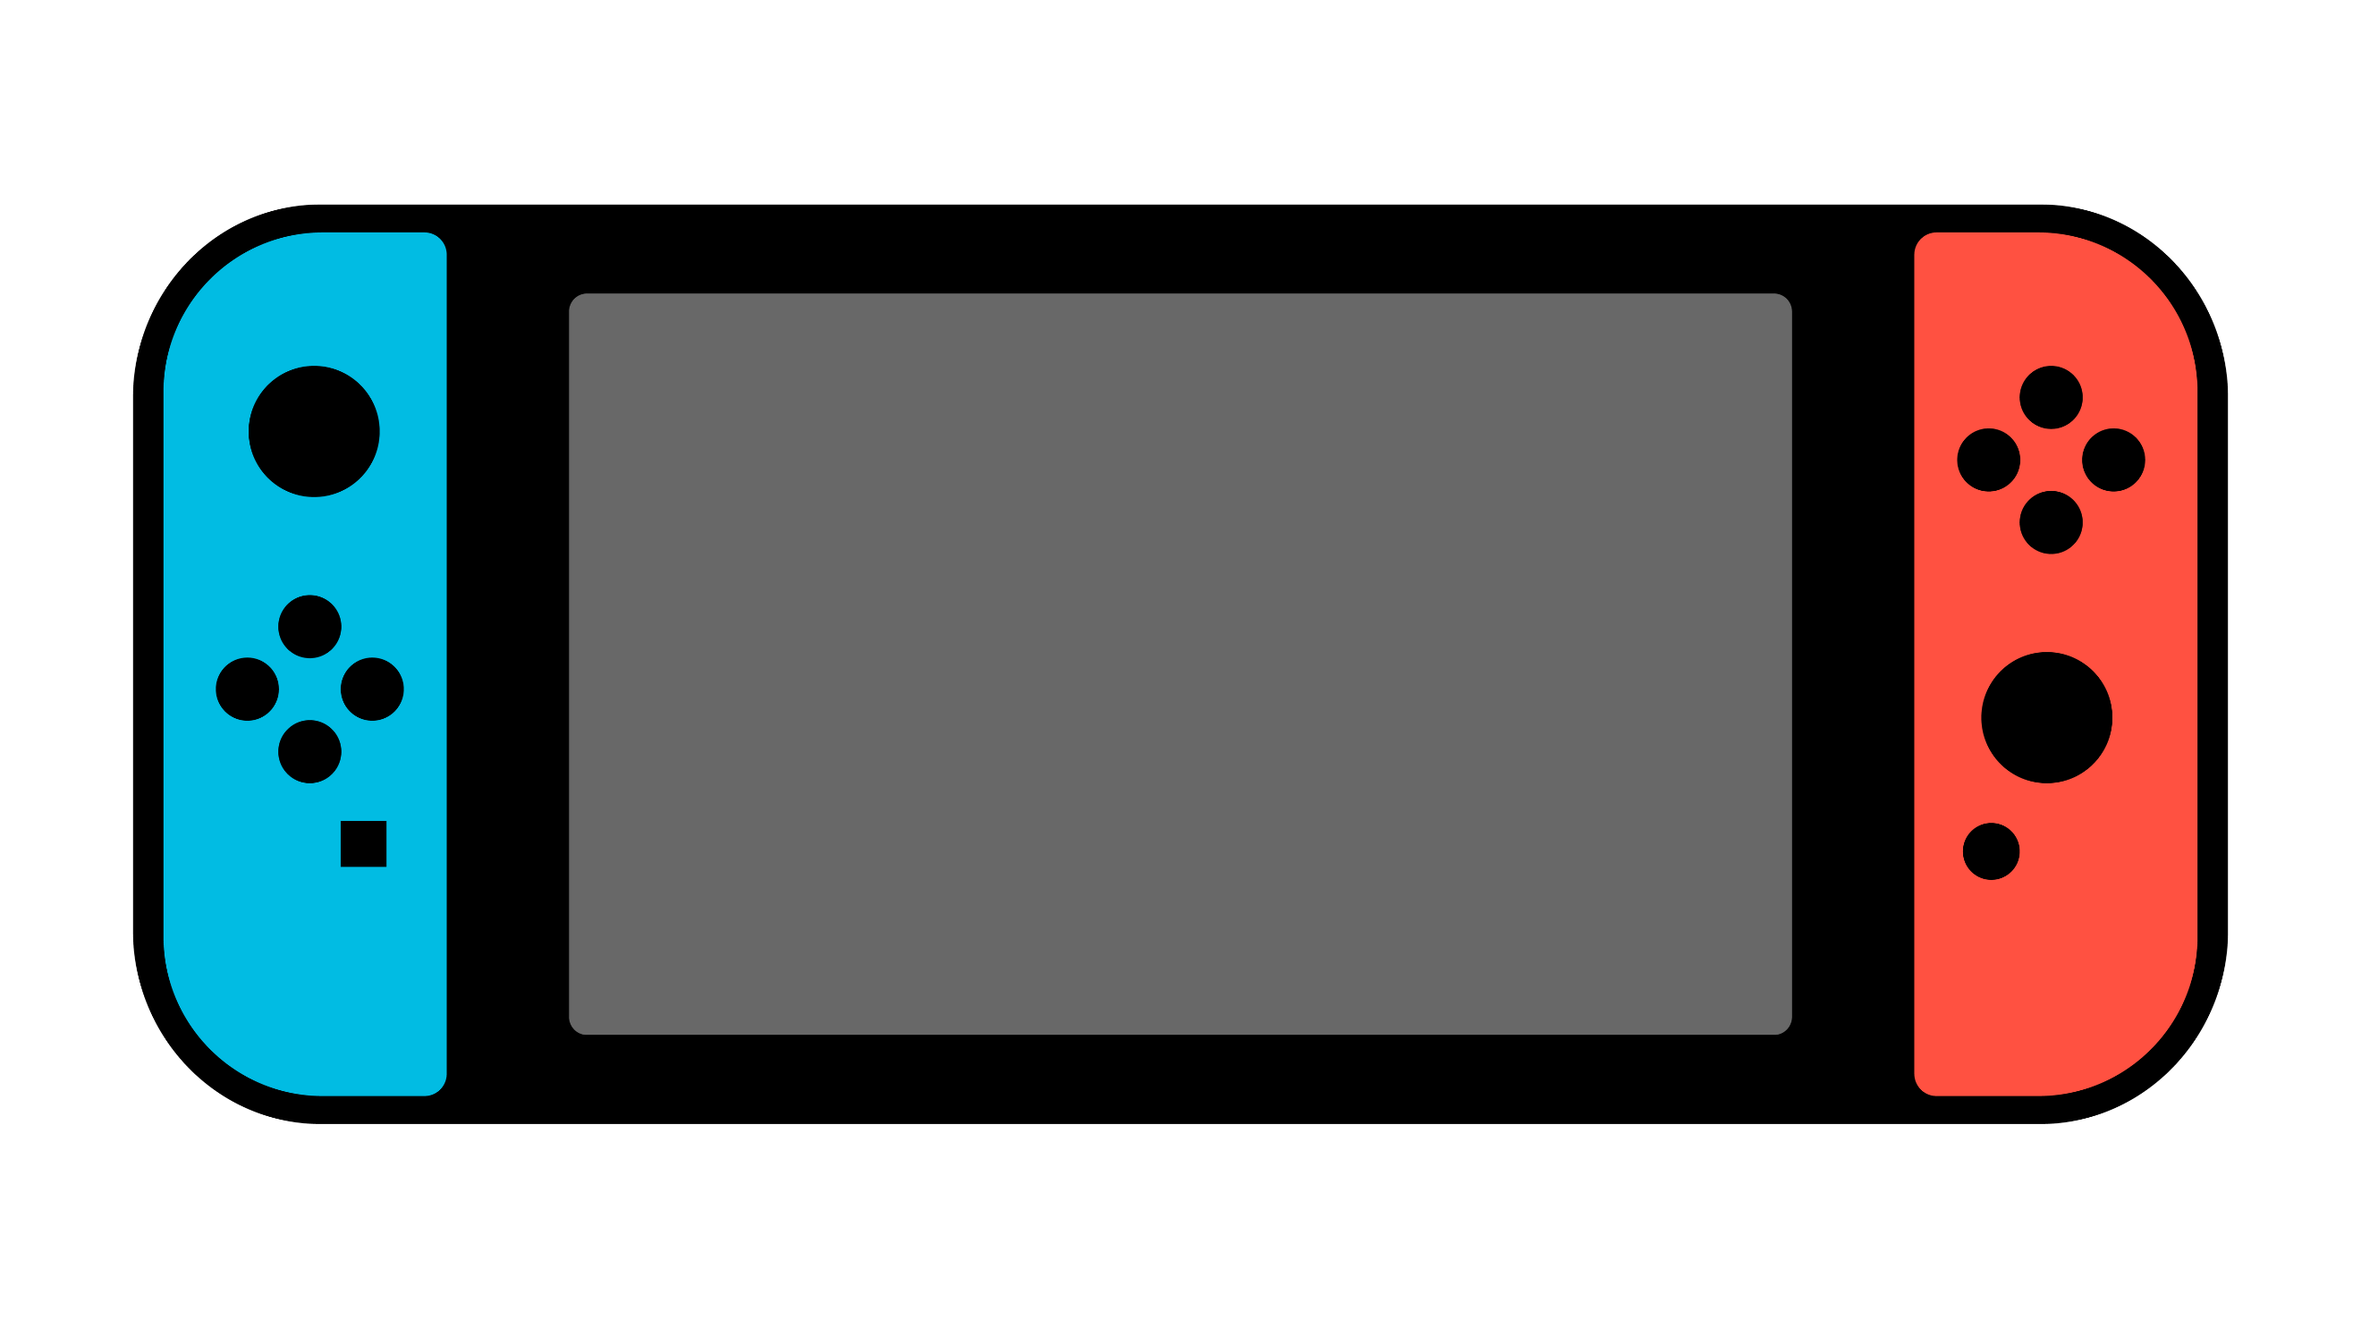
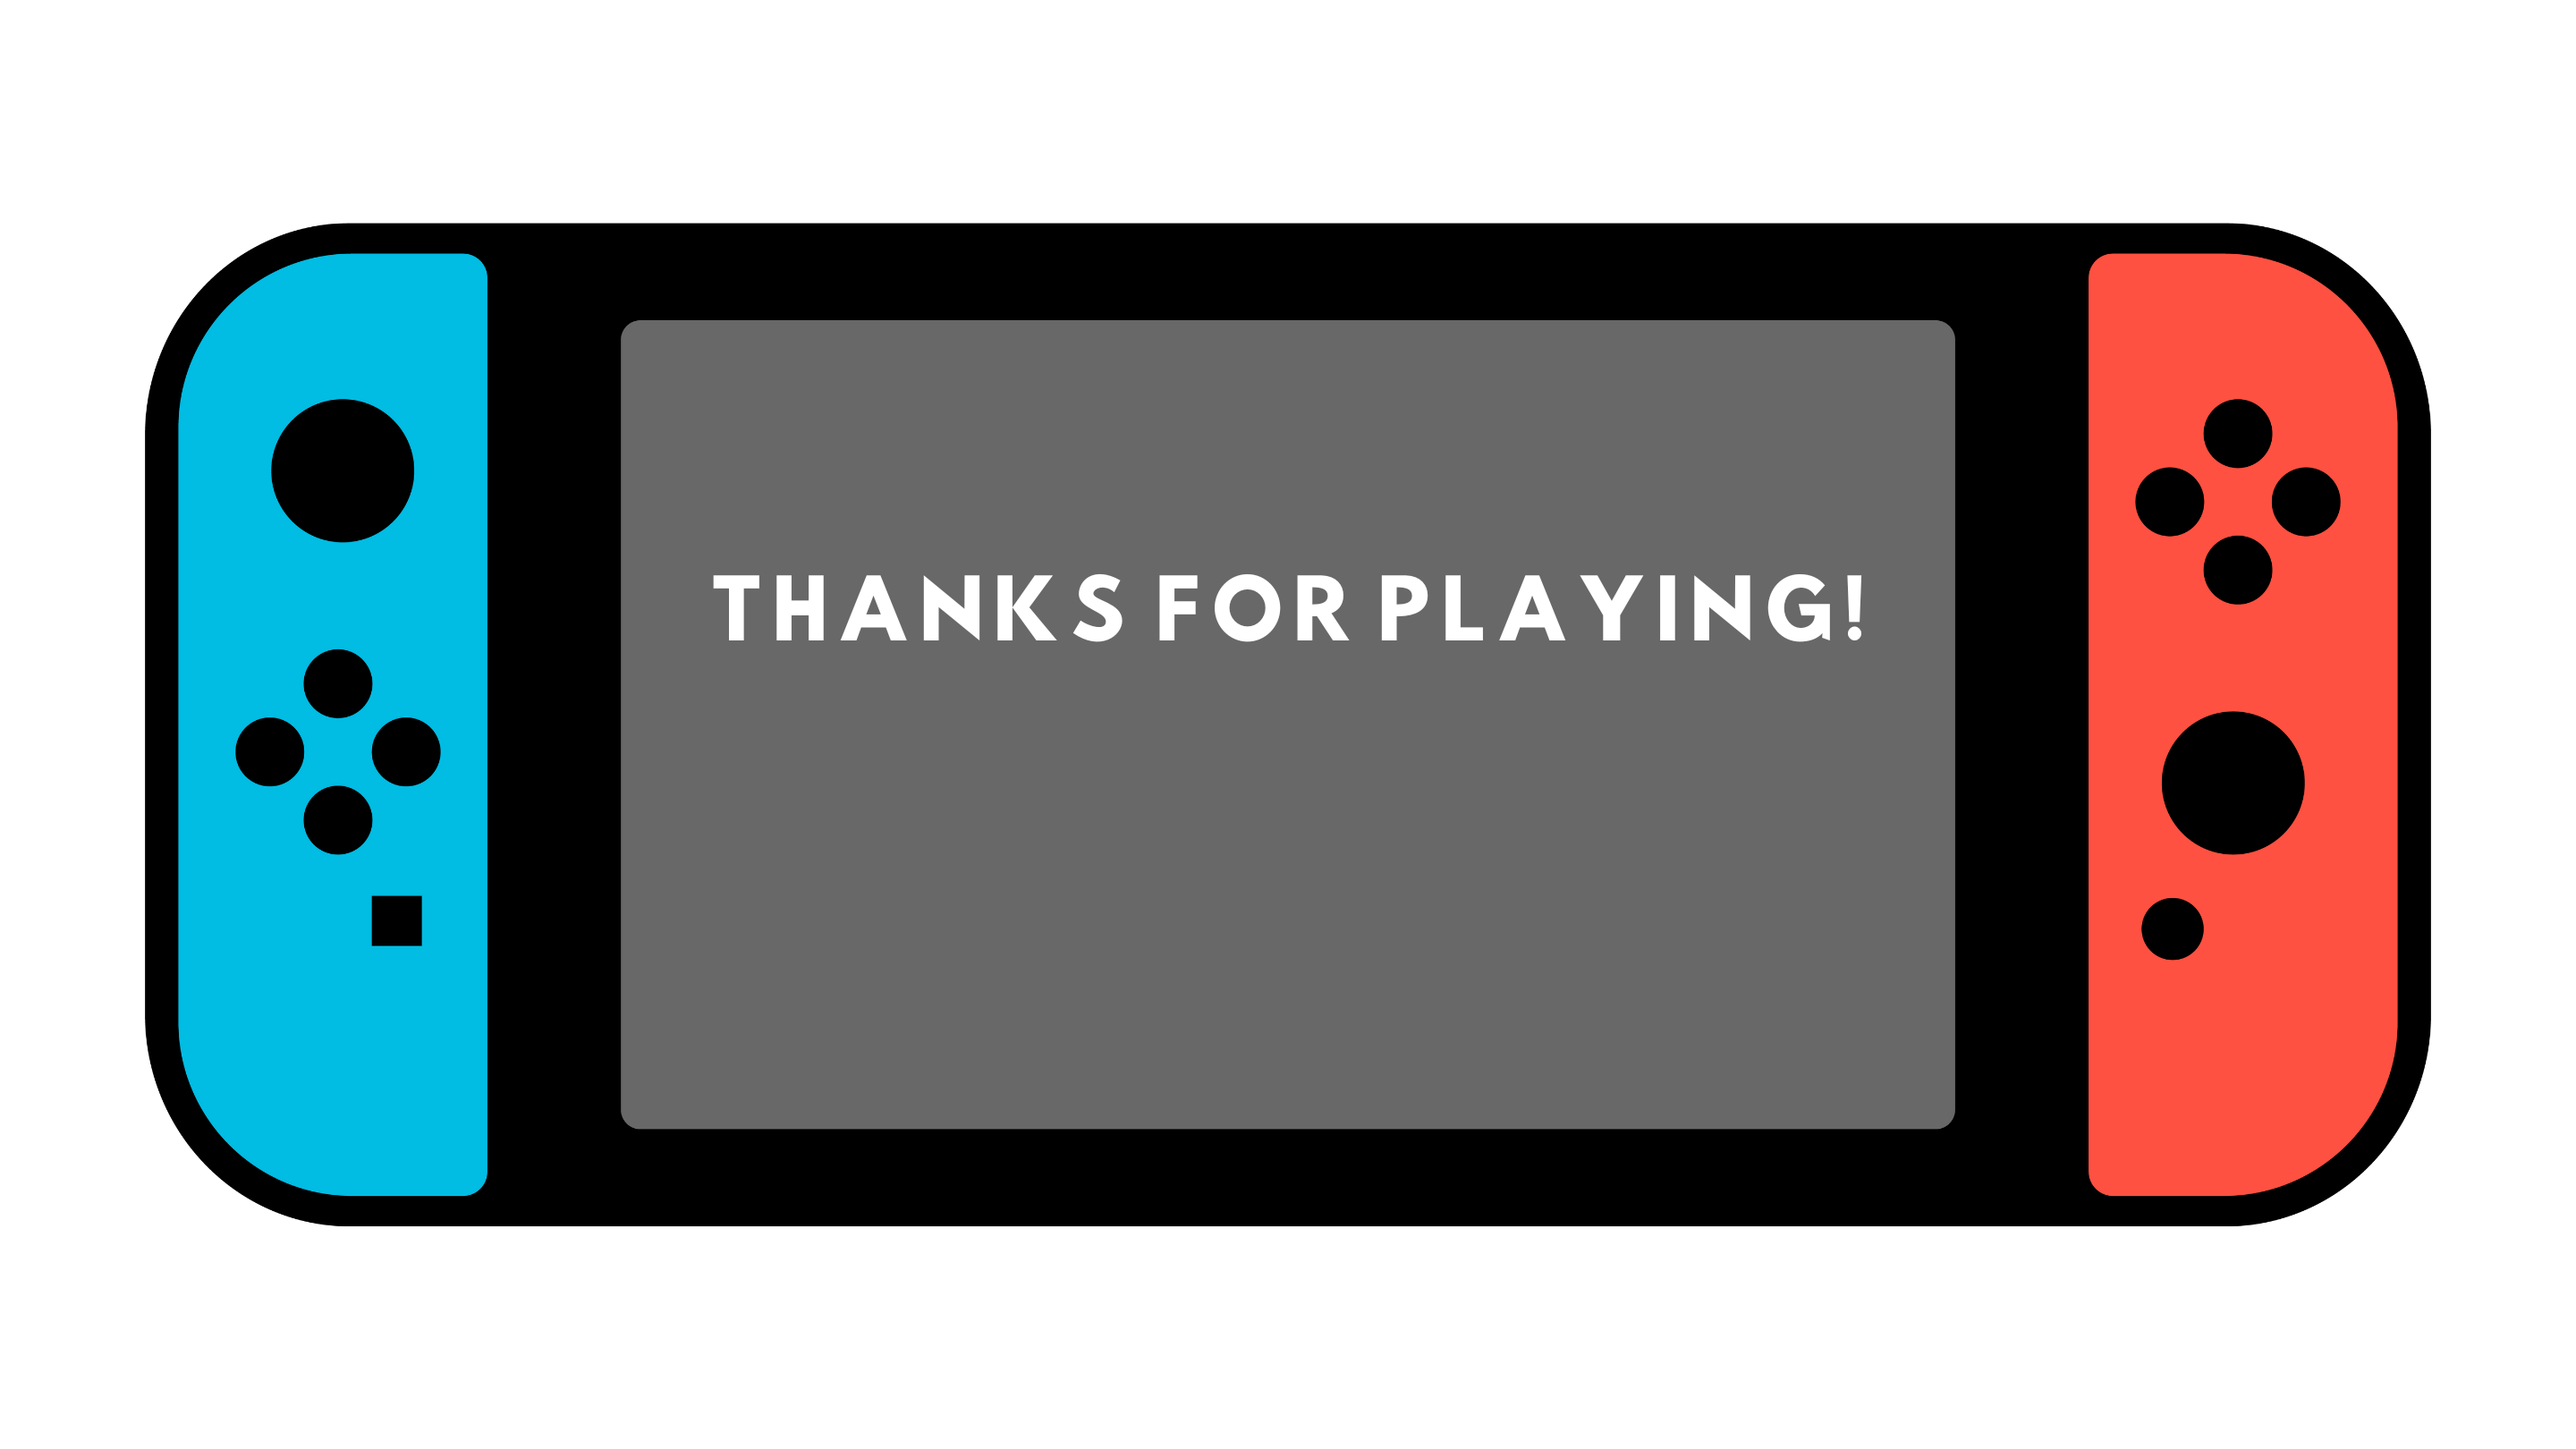
play again and fixed text

Changed region(s): [[0.2795, 0.3717, 0.7455, 0.4646]]

diff --git a/src/mastermind/controllers/GameBoard.java b/src/mastermind/controllers/GameBoard.java
@@ -1,5 +1,6 @@
 package mastermind.controllers;
 
+import javafx.animation.Timeline;
 import javafx.fxml.FXML;
 import javafx.fxml.FXMLLoader;
 import javafx.scene.Parent;
@@ -42,6 +43,8 @@ public class GameBoard {
     protected GridPane responseGrid;
     @FXML
     protected Text text;
+    @FXML
+    protected Button nextButton;
 
     private int currentGuessRow;
     private int currentGuessColumn;
@@ -50,6 +53,8 @@ public class GameBoard {
 
     private String gameMode;
     private Code generatedCode;
+
+    Timeline timeline = new Timeline();
 
     public void initialize() {
         guessGrid.getChildren().clear();
@@ -74,8 +79,11 @@ public class GameBoard {
         if ("guess".equals(gameMode)) {
             generateRandomCode();
             hideCode();
-            // text.setText("Please enter your guess.");
+            text.setText("Please enter your guess.");
         } 
+        if ("create".equals(gameMode)) {
+            text.setText("Please create a code.");
+        }
     }
 
     private void generateRandomCode() {
@@ -104,6 +112,8 @@ public class GameBoard {
         checkButton.setShape(new Circle(20));
         checkButton.setMinSize(44, 44);
         checkButton.setMaxSize(44, 44);
+
+        nextButton.setVisible(false);
 
         handleButtonActions();
     }
@@ -181,7 +191,7 @@ public class GameBoard {
 
     private void submitGuess() {
         if (currentGuessColumn < Mastermind.CODE_LENGTH) {
-            // text.setText("Please enter four colors.");
+            text.setText("Please enter four colors.");
             return;
         }
 
@@ -202,28 +212,27 @@ public class GameBoard {
         displayResponse(response);
     
         if (response.getResponse().getKey() == Mastermind.CODE_LENGTH) {
-            // text.setText("You win!");
+            text.setText("You win!");
+            revealCode();
+            nextButton.setVisible(true);
         } else {
             currentGuessRow++;
             currentGuessColumn = 0;
-            if (currentGuessRow == Mastermind.NUM_GUESSES - 1) {
-                // text.setText("1 more attempt");
+           
+            if (response.getResponse().getKey() == 0) {
+                text.setText("None correct. " + (Mastermind.NUM_GUESSES - currentGuessRow) + " attempts left.");
+            } else if (currentGuessRow == Mastermind.NUM_GUESSES - 1) {
+                text.setText("1 attempt left");
             } else {
-                // text.setText((Mastermind.NUM_GUESSES - currentGuessRow) + " attempts left.");
+                text.setText((Mastermind.NUM_GUESSES - currentGuessRow) + " attempts left.");
             } 
-            text.setText((currentGuessRow + 1) + " attempts left.");
 
             if (currentGuessRow >= Mastermind.NUM_GUESSES) {
-                // text.setText("You lose.");
+                text.setText("You lose.");
                 revealCode();
-                try {
-                    loadGameOverPage();
-                } catch (IOException e) {
-                    e.printStackTrace();
-                }
+                nextButton.setVisible(true);
             }
         }
-        
         currentGuessColumn = 0;
     }
     
@@ -250,16 +259,15 @@ public class GameBoard {
     
             responseGrid.add(peg, columnOffset, rowOffset);
         }
-    
         currentResponseRow += (pegColors.size() + 1) / 2;
-    
-        if (response.getResponse().getKey() == Mastermind.CODE_LENGTH) {
-            revealCode();
-            // text.setText("You win!");
-        }
     }    
     
     private void submitCode() {
+        if (currentCreateColumn < Mastermind.CODE_LENGTH) {
+            text.setText("Please create a code.");
+            return;
+        }
+
         List<Integer> codeList = new ArrayList<>();
         for (int i = 0; i < Mastermind.CODE_LENGTH; i++) {
             Circle dot = (Circle) createGrid.getChildren().get(i);
@@ -272,6 +280,7 @@ public class GameBoard {
                                                             ? Code.Color.PURPLE.ordinal()
                                                             : -1);
         }
+        text.setText("Code created. The computer will now try to guess it!");
         Code userCode = new Code(codeList);
     }
     
@@ -292,12 +301,14 @@ public class GameBoard {
         }
     }
 
-    private void loadGameOverPage() throws IOException {
+
+    @FXML
+    void onNextBtnClick() throws IOException {
         Parent GameOverParent = FXMLLoader.load(getClass().getResource("/mastermind/gui/fxml/GameOver.fxml"));
         Scene HTP2Scene = new Scene(GameOverParent);
         Stage window = (Stage) greenButton.getScene().getWindow();        
         window.setScene(HTP2Scene);
         window.show();
-    }    
+    }
 
 }

diff --git a/src/mastermind/controllers/GameOver.java b/src/mastermind/controllers/GameOver.java
@@ -1,5 +1,32 @@
 package mastermind.controllers;
 
+import java.io.IOException;
+import javafx.event.ActionEvent;
+import javafx.fxml.FXML;
+import javafx.fxml.FXMLLoader;
+import javafx.scene.Node;
+import javafx.scene.Parent;
+import javafx.scene.Scene;
+import javafx.stage.Stage;
+
 public class GameOver {
-    
+
+    @FXML 
+    void onPlayAgainBtnClick(ActionEvent event) throws IOException {
+        Parent parent = FXMLLoader.load(getClass().getResource("/mastermind/gui/fxml/SelectGameMode.fxml"));
+        Scene scene = new Scene(parent);
+        Stage window = (Stage)((Node)event.getSource()).getScene().getWindow();
+        window.setScene(scene);
+        window.show();
+    }
+
+    @FXML
+    void onExitBtnClick(ActionEvent event) throws IOException {
+        Parent parent = FXMLLoader.load(getClass().getResource("/mastermind/gui/fxml/StartMenu.fxml"));
+        Scene scene = new Scene(parent);
+        Stage window = (Stage)((Node)event.getSource()).getScene().getWindow();
+        window.setScene(scene);
+        window.show();
+    }
+
 }

diff --git a/src/mastermind/controllers/SelectGameMode.java b/src/mastermind/controllers/SelectGameMode.java
@@ -8,7 +8,6 @@ import javafx.scene.Node;
 import javafx.scene.Parent;
 import javafx.scene.Scene;
 import javafx.stage.Stage;
-import mastermind.core.*;
 
 public class SelectGameMode {
 
@@ -28,12 +27,12 @@ public class SelectGameMode {
 
     private void loadGameBoard(ActionEvent event) throws IOException {
         FXMLLoader loader = new FXMLLoader(getClass().getResource("/mastermind/gui/fxml/GameBoard.fxml"));
-        Parent gameBoardParent = loader.load();
+        Parent parent = loader.load();
+
+        GameBoard gameBoard = loader.getController();
+        gameBoard.setGameMode(gameMode);
         
-        GameBoard gameBoardController = loader.getController();
-        gameBoardController.setGameMode(gameMode);
-        
-        Scene gameBoardScene = new Scene(gameBoardParent);
+        Scene gameBoardScene = new Scene(parent);
         Stage window = (Stage)((Node)event.getSource()).getScene().getWindow();
         
         window.setScene(gameBoardScene);

diff --git a/src/mastermind/controllers/EnterUsername.java b/src/mastermind/controllers/EnterUsername.java
@@ -36,12 +36,11 @@ public class EnterUsername {
     public void submit(ActionEvent event) throws IOException {
         submit.setDisable(true);
         username = usernameField.getText();
-        System.out.println(username);
-        Parent gameOverviewParent = FXMLLoader.load(getClass().getResource("/mastermind/gui/fxml/GameOverview.fxml"));
-        Scene gameOverviewScene = new Scene(gameOverviewParent);
+        Parent parent = FXMLLoader.load(getClass().getResource("/mastermind/gui/fxml/GameOverview.fxml"));
+        Scene scene = new Scene(parent);
         Stage window = (Stage)((Node)event.getSource()).getScene().getWindow();
             
-        window.setScene(gameOverviewScene);
+        window.setScene(scene);
         window.show();
     }
 }

diff --git a/src/mastermind/controllers/StartMenu.java b/src/mastermind/controllers/StartMenu.java
@@ -13,11 +13,11 @@ public class StartMenu {
    
     @FXML
     void onPlayBtnClick(ActionEvent event) throws IOException {
-        Parent enterUsernameParent = FXMLLoader.load(getClass().getResource("/mastermind/gui/fxml/EnterUsername.fxml"));
-        Scene enterUsernameScene = new Scene(enterUsernameParent);
+        Parent parent = FXMLLoader.load(getClass().getResource("/mastermind/gui/fxml/EnterUsername.fxml"));
+        Scene scene = new Scene(parent);
         Stage window = (Stage)((Node)event.getSource()).getScene().getWindow();
         
-        window.setScene(enterUsernameScene);
+        window.setScene(scene);
         window.show();
     }
 }

diff --git a/src/mastermind/controllers/HTP2.java b/src/mastermind/controllers/HTP2.java
@@ -13,11 +13,11 @@ public class HTP2 {
 
     @FXML
     void onNextBtnClick(ActionEvent event) throws IOException {
-        Parent selectGameModeParent = FXMLLoader.load(getClass().getResource("/mastermind/gui/fxml/SelectGameMode.fxml"));
-        Scene selectGameModeScene = new Scene(selectGameModeParent);
+        Parent parent = FXMLLoader.load(getClass().getResource("/mastermind/gui/fxml/SelectGameMode.fxml"));
+        Scene scene = new Scene(parent);
         Stage window = (Stage)((Node)event.getSource()).getScene().getWindow();
         
-        window.setScene(selectGameModeScene);
+        window.setScene(scene);
         window.show();
     }
 

diff --git a/src/mastermind/controllers/GameOverview.java b/src/mastermind/controllers/GameOverview.java
@@ -13,11 +13,11 @@ public class GameOverview {
 
     @FXML
     void onNextBtnClick(ActionEvent event) throws IOException {
-        Parent gameOverviewparent = FXMLLoader.load(getClass().getResource("/mastermind/gui/fxml/HTP1.fxml"));
-        Scene gameOverviewScene = new Scene(gameOverviewparent);
+        Parent parent = FXMLLoader.load(getClass().getResource("/mastermind/gui/fxml/HTP1.fxml"));
+        Scene scene = new Scene(parent);
         Stage window = (Stage)((Node)event.getSource()).getScene().getWindow();
         
-        window.setScene(gameOverviewScene);
+        window.setScene(scene);
         window.show();
     }
 

diff --git a/src/mastermind/controllers/SelectDifficultyLevel.java b/src/mastermind/controllers/SelectDifficultyLevel.java
@@ -34,11 +34,11 @@ public class SelectDifficultyLevel {
 
     private void loadGameBoard(ActionEvent event) throws IOException {
         FXMLLoader loader = new FXMLLoader(getClass().getResource("/mastermind/gui/fxml/GameBoard.fxml"));
-        Parent gameBoardParent = loader.load();
-        Scene gameBoardScene = new Scene(gameBoardParent);
+        Parent parent = loader.load();
+        Scene scene = new Scene(parent);
         Stage window = (Stage)((Node)event.getSource()).getScene().getWindow();
         
-        window.setScene(gameBoardScene);
+        window.setScene(scene);
         window.show();
     }
 

diff --git a/src/mastermind/controllers/HTP1.java b/src/mastermind/controllers/HTP1.java
@@ -13,11 +13,11 @@ public class HTP1 {
 
     @FXML
     void onNextBtnClick(ActionEvent event) throws IOException {
-        Parent HTP2Parent = FXMLLoader.load(getClass().getResource("/mastermind/gui/fxml/HTP2.fxml"));
-        Scene HTP2Scene = new Scene(HTP2Parent);
+        Parent parent  = FXMLLoader.load(getClass().getResource("/mastermind/gui/fxml/HTP2.fxml"));
+        Scene scene = new Scene(parent);
         Stage window = (Stage)((Node)event.getSource()).getScene().getWindow();
         
-        window.setScene(HTP2Scene);
+        window.setScene(scene);
         window.show();
     }
 
